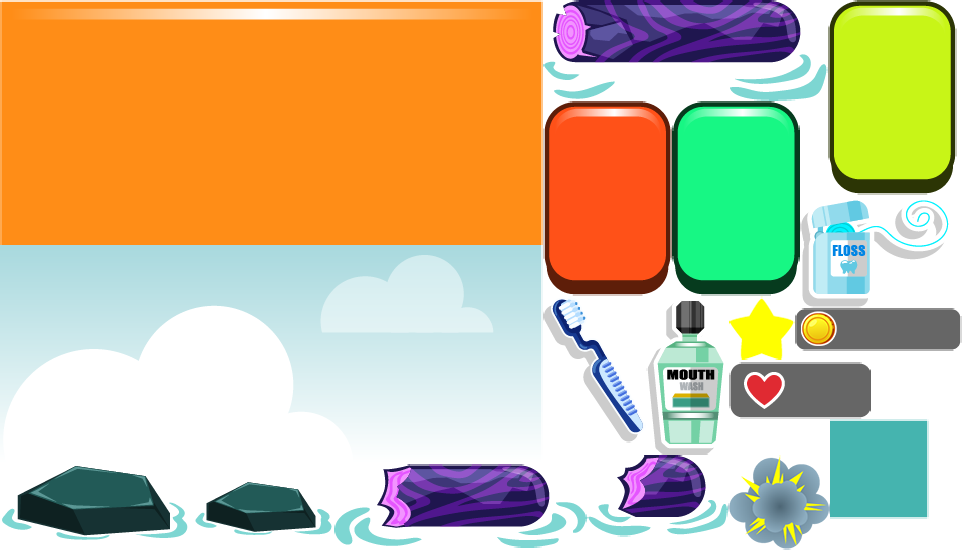
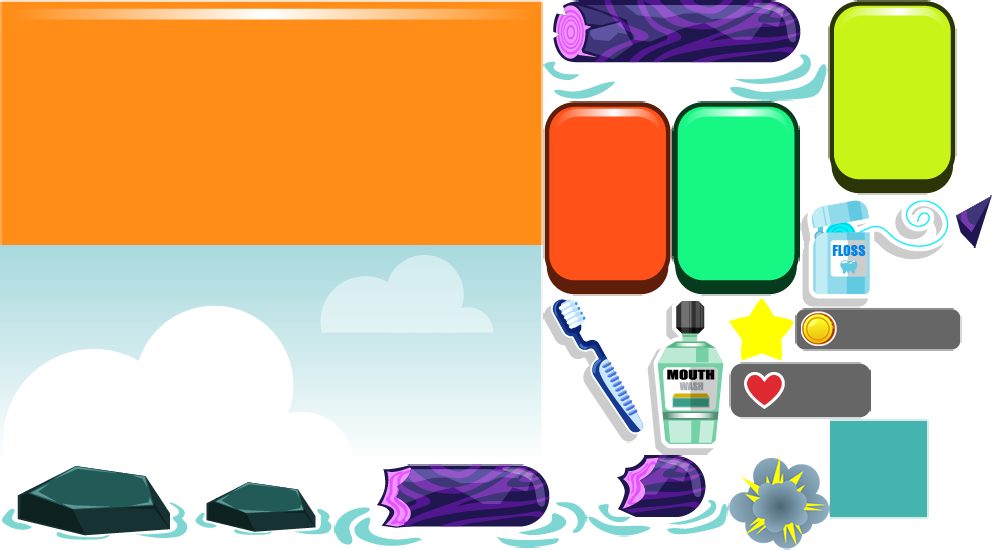
WildDentist with changes and new particles

diff --git a/newStructure/minigames/wildDentist/js/scenes/wildDentist.js b/newStructure/minigames/wildDentist/js/scenes/wildDentist.js
@@ -109,7 +109,14 @@ var wildDentist = function(){
                frames: 23
            }
         ],
-        spines:[]
+        spines:[],
+        // particles: [
+        //     {
+        //         name: 'wood_bite',
+        //         file: imagePath +'particles/wood_bite.json',
+        //         texture: imagePath +'particles/wood_bite.png'
+        //     }
+        // ]
     }
 
     /*vars defautl*/
@@ -122,8 +129,11 @@ var wildDentist = function(){
     var coin;
     var background;
     var speed = 1.5;
+    var speedincrement = 0;
+    var speedMove;
     var particleCorrect;      
     var particleWrong;
+    var particleTrunk;
     var hand;
     var reviewComic = true;
     /*vars defautl*/
@@ -140,6 +150,7 @@ var wildDentist = function(){
     var tweenHand;
     var changeTween;
     var buttonsSquare;
+    //var emitter;
     
     function loadSounds(){
         sound.decode(assets.sounds)
@@ -150,6 +161,7 @@ var wildDentist = function(){
         game.stage.backgroundColor = "#ffffff";      //Poner siempre un background
         lives = 3;
         speed = 1.5;
+        speedincrement = 0;
         starGame = false;
         castores = [
         {id:0,idle:"",bite:"",bad_breath:"",broken:"",caries:"",hit:"",clean:true,state:"",biteBeaver:false},
@@ -166,6 +178,7 @@ var wildDentist = function(){
         casesInTutorial = 0;
         changeTween = false;
         buttonsSquare = [];
+        speedMove = [1.0,0.5,0.7];
 
         sceneGroup.alpha = 0;
         game.add.tween(sceneGroup).to({alpha:1},400, Phaser.Easing.Cubic.Out,true);
@@ -210,6 +223,7 @@ var wildDentist = function(){
     }
 
     function update() {
+        //epicparticles.update();
         if(gameState!=null){
             gameState();
         }
@@ -403,7 +417,7 @@ var wildDentist = function(){
         if(starGame){   
             if(lives != 0){ 
                 for(var p = 0; p<=2;p++){
-                    moveTrunk(arrayTrunks[p],speed,castores[p])
+                    moveTrunk(arrayTrunks[p],speedMove[p]+speedincrement,castores[p], p)//speed
                 }
             }else{
                 starGame = false;
@@ -429,7 +443,14 @@ var wildDentist = function(){
 
     }
 
-    function moveTrunk(trunk,speed,target){
+    function randomFloatBetween(minValue,maxValue,precision){
+    if(typeof(precision) == 'undefined'){
+        precision = 2;
+    }
+    return parseFloat(Math.min(minValue + (Math.random() * (maxValue - minValue)),maxValue).toFixed(precision));
+}
+
+    function moveTrunk(trunk,speed,target, index){
             if(!target.biteBeaver){
                 if(trunk.tronco1.x > (target.idle.x + target.idle.width/1.5)){
                         trunk.tronco1.x -= speed;
@@ -451,7 +472,7 @@ var wildDentist = function(){
                         target.biteBeaver = true;
                         hitBeaver(trunk,target);
                     }
-
+                    speedMove[index] = randomFloatBetween(0.5,1.0,1);
                 }
             }
         }    
@@ -480,20 +501,23 @@ var wildDentist = function(){
         var counter = 1;
         var anim = target.bite.animations.add('castorAnima2');
         anim.onLoop.add(eatTrunk, this);
-        anim.play(speed * 12, true);
+        anim.play(speed * 48, true);//12
         
         function eatTrunk(){
             if(counter == 1){
+                particleTrunkEmitter(target.bite)
                 trunk.tronco1.alpha = 0;
                 trunk.tronco2.alpha = 1; 
                 sound.play("bite");
                  counter++;
             }else if(counter == 2){
+                particleTrunkEmitter(target.bite)
                trunk.tronco2.alpha = 0;
                trunk.tronco3.alpha = 1; 
                 sound.play("bite");
                  counter++;
             }else if(counter == 3){ 
+                particleTrunkEmitter(target.bite)
                 trunk.tronco3.alpha = 0;
                 counter = 0;
                 target.bite.alpha = 0;
@@ -527,7 +551,13 @@ var wildDentist = function(){
            
         }
         
-    } 
+    }
+
+    function particleTrunkEmitter(target){
+        particleTrunk.x = target.x + target.width/2 + 10;
+        particleTrunk.y = target.y + target.height/2 + 50;
+        particleTrunk.start(true, 1000, null, 7);
+    }
     
     /*CREATE SCENE*/
     function createScene(){
@@ -535,12 +565,12 @@ var wildDentist = function(){
         sceneGroup.add(background);
         var groupTrunks = game.add.group();   
         
-        var seaBg = new Phaser.Graphics(game)
-        seaBg.beginFill(0x45B4AF)
+        var seaBg = new Phaser.Graphics(game);
+        seaBg.beginFill(0x45B4AF);
         seaBg.drawRect(0,160,game.world.width, game.world.height);
         seaBg.endFill();
-        sceneGroup.add(seaBg); 
-        sceneGroup.add(groupTrunks);
+        sceneGroup.add(seaBg);
+        //sceneGroup.add(groupTrunks);
         shuffle(trunkPosition);
         for(var i=0;i<=2;i++){
                 
@@ -599,16 +629,20 @@ var wildDentist = function(){
             ondasCastores[i].anchor.setTo(0.5,0);
             TweenMax.fromTo(ondasCastores[i].scale,1,{x:0.7},{x:0.8,repeat:-1,yoyo:true});
             arrayTrunks[i].tronco1 = groupTrunks.create(0,0,"atlas.game","tronco1");
-            arrayTrunks[i].tronco1.x = game.width - (trunkPosition[i] * 100);
-            arrayTrunks[i].tronco1.y = castores[i].idle.y + arrayTrunks[i].tronco1.height + 20;        
+            arrayTrunks[i].tronco1.scale.setTo(0.5,0.7);
+            arrayTrunks[i].tronco1.x = game.width - (trunkPosition[i] * 50);
+            arrayTrunks[i].tronco1.y = castores[i].idle.y + arrayTrunks[i].tronco1.height + 50;        
             arrayTrunks[i].tronco2 = groupTrunks.create(0,0,"atlas.game","tronco2");
+            arrayTrunks[i].tronco2.scale.setTo(0.5,0.7);
             arrayTrunks[i].tronco2.x = arrayTrunks[i].tronco1.x;
-            arrayTrunks[i].tronco2.y = castores[i].idle.y + arrayTrunks[i].tronco2.height + 35; 
+            arrayTrunks[i].tronco2.y = castores[i].idle.y + arrayTrunks[i].tronco2.height + 65; 
             arrayTrunks[i].tronco2.alpha = 0;
             arrayTrunks[i].tronco3 = groupTrunks.create(0,0,"atlas.game","tronco3");
+            arrayTrunks[i].tronco3.scale.setTo(0.5,0.7); 
             arrayTrunks[i].tronco3.x = arrayTrunks[i].tronco1.x - 20;
-            arrayTrunks[i].tronco3.y = castores[i].idle.y + arrayTrunks[i].tronco3.height + 40;
-            arrayTrunks[i].tronco3.alpha = 0;             
+            arrayTrunks[i].tronco3.y = castores[i].idle.y + arrayTrunks[i].tronco3.height + 70;
+            arrayTrunks[i].tronco3.alpha = 0;
+
             tileRocks[i] = game.add.tileSprite(0,0,game.width,155,"rocks");
             tileRocks[i].height = 155;
             tileRocks[i].y = arrayTrunks[i].tronco1.y + tileRocks[i].height/2;
@@ -628,6 +662,8 @@ var wildDentist = function(){
             }
             castores[i].clean = false;
         }
+
+        sceneGroup.add(groupTrunks);
         
         var container = sceneGroup.create(0,0,"atlas.game","contenedor");
         container.y = game.height - container.height + 10;
@@ -686,7 +722,11 @@ var wildDentist = function(){
         hand.animations.add('hand');
         hand.animations.play('hand', 24, true);
         hand.alpha = 0;
-        createChangeTweenHand(2);    
+        createChangeTweenHand(2);
+
+        // emitter = epicparticles.newEmitter("wood_bite");
+        // emitter.x = 30;
+        // emitter.y = 30;  
     }
 
     function createChangeTweenHand(index){
@@ -741,6 +781,7 @@ var wildDentist = function(){
                             castores[d].biteBeaver = false;
                             castores[d].clean = true;
                             speed = speed + 0.08;//0.05
+                            speedincrement += 0.04;
                             particleCorrect.x = castores[d].idle.world.x + castores[d].idle.width/2;
                             particleCorrect.y = castores[d].idle.world.y + castores[d].idle.height/2;
                             particleCorrect.start(true, 1000, null, 5);
@@ -808,6 +849,9 @@ var wildDentist = function(){
 
             particleWrong = createPart("smoke");
             sceneGroup.add(particleWrong);
+
+            particleTrunk = createPart("wood_bite");
+            sceneGroup.add(particleTrunk);
             
             buttons.getButton(wildDentistSong,sceneGroup);
         }       

diff --git a/newStructure/minigames/wildDentist/index.html b/newStructure/minigames/wildDentist/index.html
@@ -21,12 +21,12 @@
 		<p>www.yogome.com</p>
 	</div>
 	<!--Core Libs-->
-	<script src="../../shared/minigames/js/phaser.min.js"></script>
-    <script src="../../shared/minigames/js/phaser-spine.min.js"></script>
-<script
-  src="https://code.jquery.com/jquery-3.2.1.min.js"
-  integrity="sha256-hwg4gsxgFZhOsEEamdOYGBf13FyQuiTwlAQgxVSNgt4="
-  crossorigin="anonymous"></script>        
+	<script src="../../shared/minigames/js/phaser283.min.js"></script>
+    <script src="../../shared/minigames/js/helpers/phaser-spine309.js"></script>
+	<script
+  	src="https://code.jquery.com/jquery-3.2.1.min.js"
+  	integrity="sha256-hwg4gsxgFZhOsEEamdOYGBf13FyQuiTwlAQgxVSNgt4="
+  	crossorigin="anonymous"></script>        
 
 	<!--Scenes-->
 	<script src="js/scenes/wildDentist.js"></script>
@@ -34,6 +34,7 @@
 	<script src="../../shared/minigames/js/scenes/preloaders/epic.js"></script>
 
 	<!--Helpers-->
+	<script src="../../shared/minigames/js/helpers/particles.js"></script>
 	<script src="../../shared/minigames/js/helpers/buttons.js"></script>
 	<script src="../../shared/minigames/js/helpers/tutorial.js"></script>
 	<script src="../../shared/minigames/js/helpers/yogomeGames.js"></script>	

diff --git a/newStructure/minigames/wildDentist/js/main.js b/newStructure/minigames/wildDentist/js/main.js
@@ -44,7 +44,8 @@ function startGame(){
         game.time.advancedTiming = true;
         game.stage.disableVisibilityChange = true;        
 
-        game.plugins.add(Fabrique.Plugins.Spine);
+        game.plugins.add(PhaserSpine.SpinePlugin);
+        //epicparticles.init(game);
         
         var language = "EN";
         if(window.location.search){
